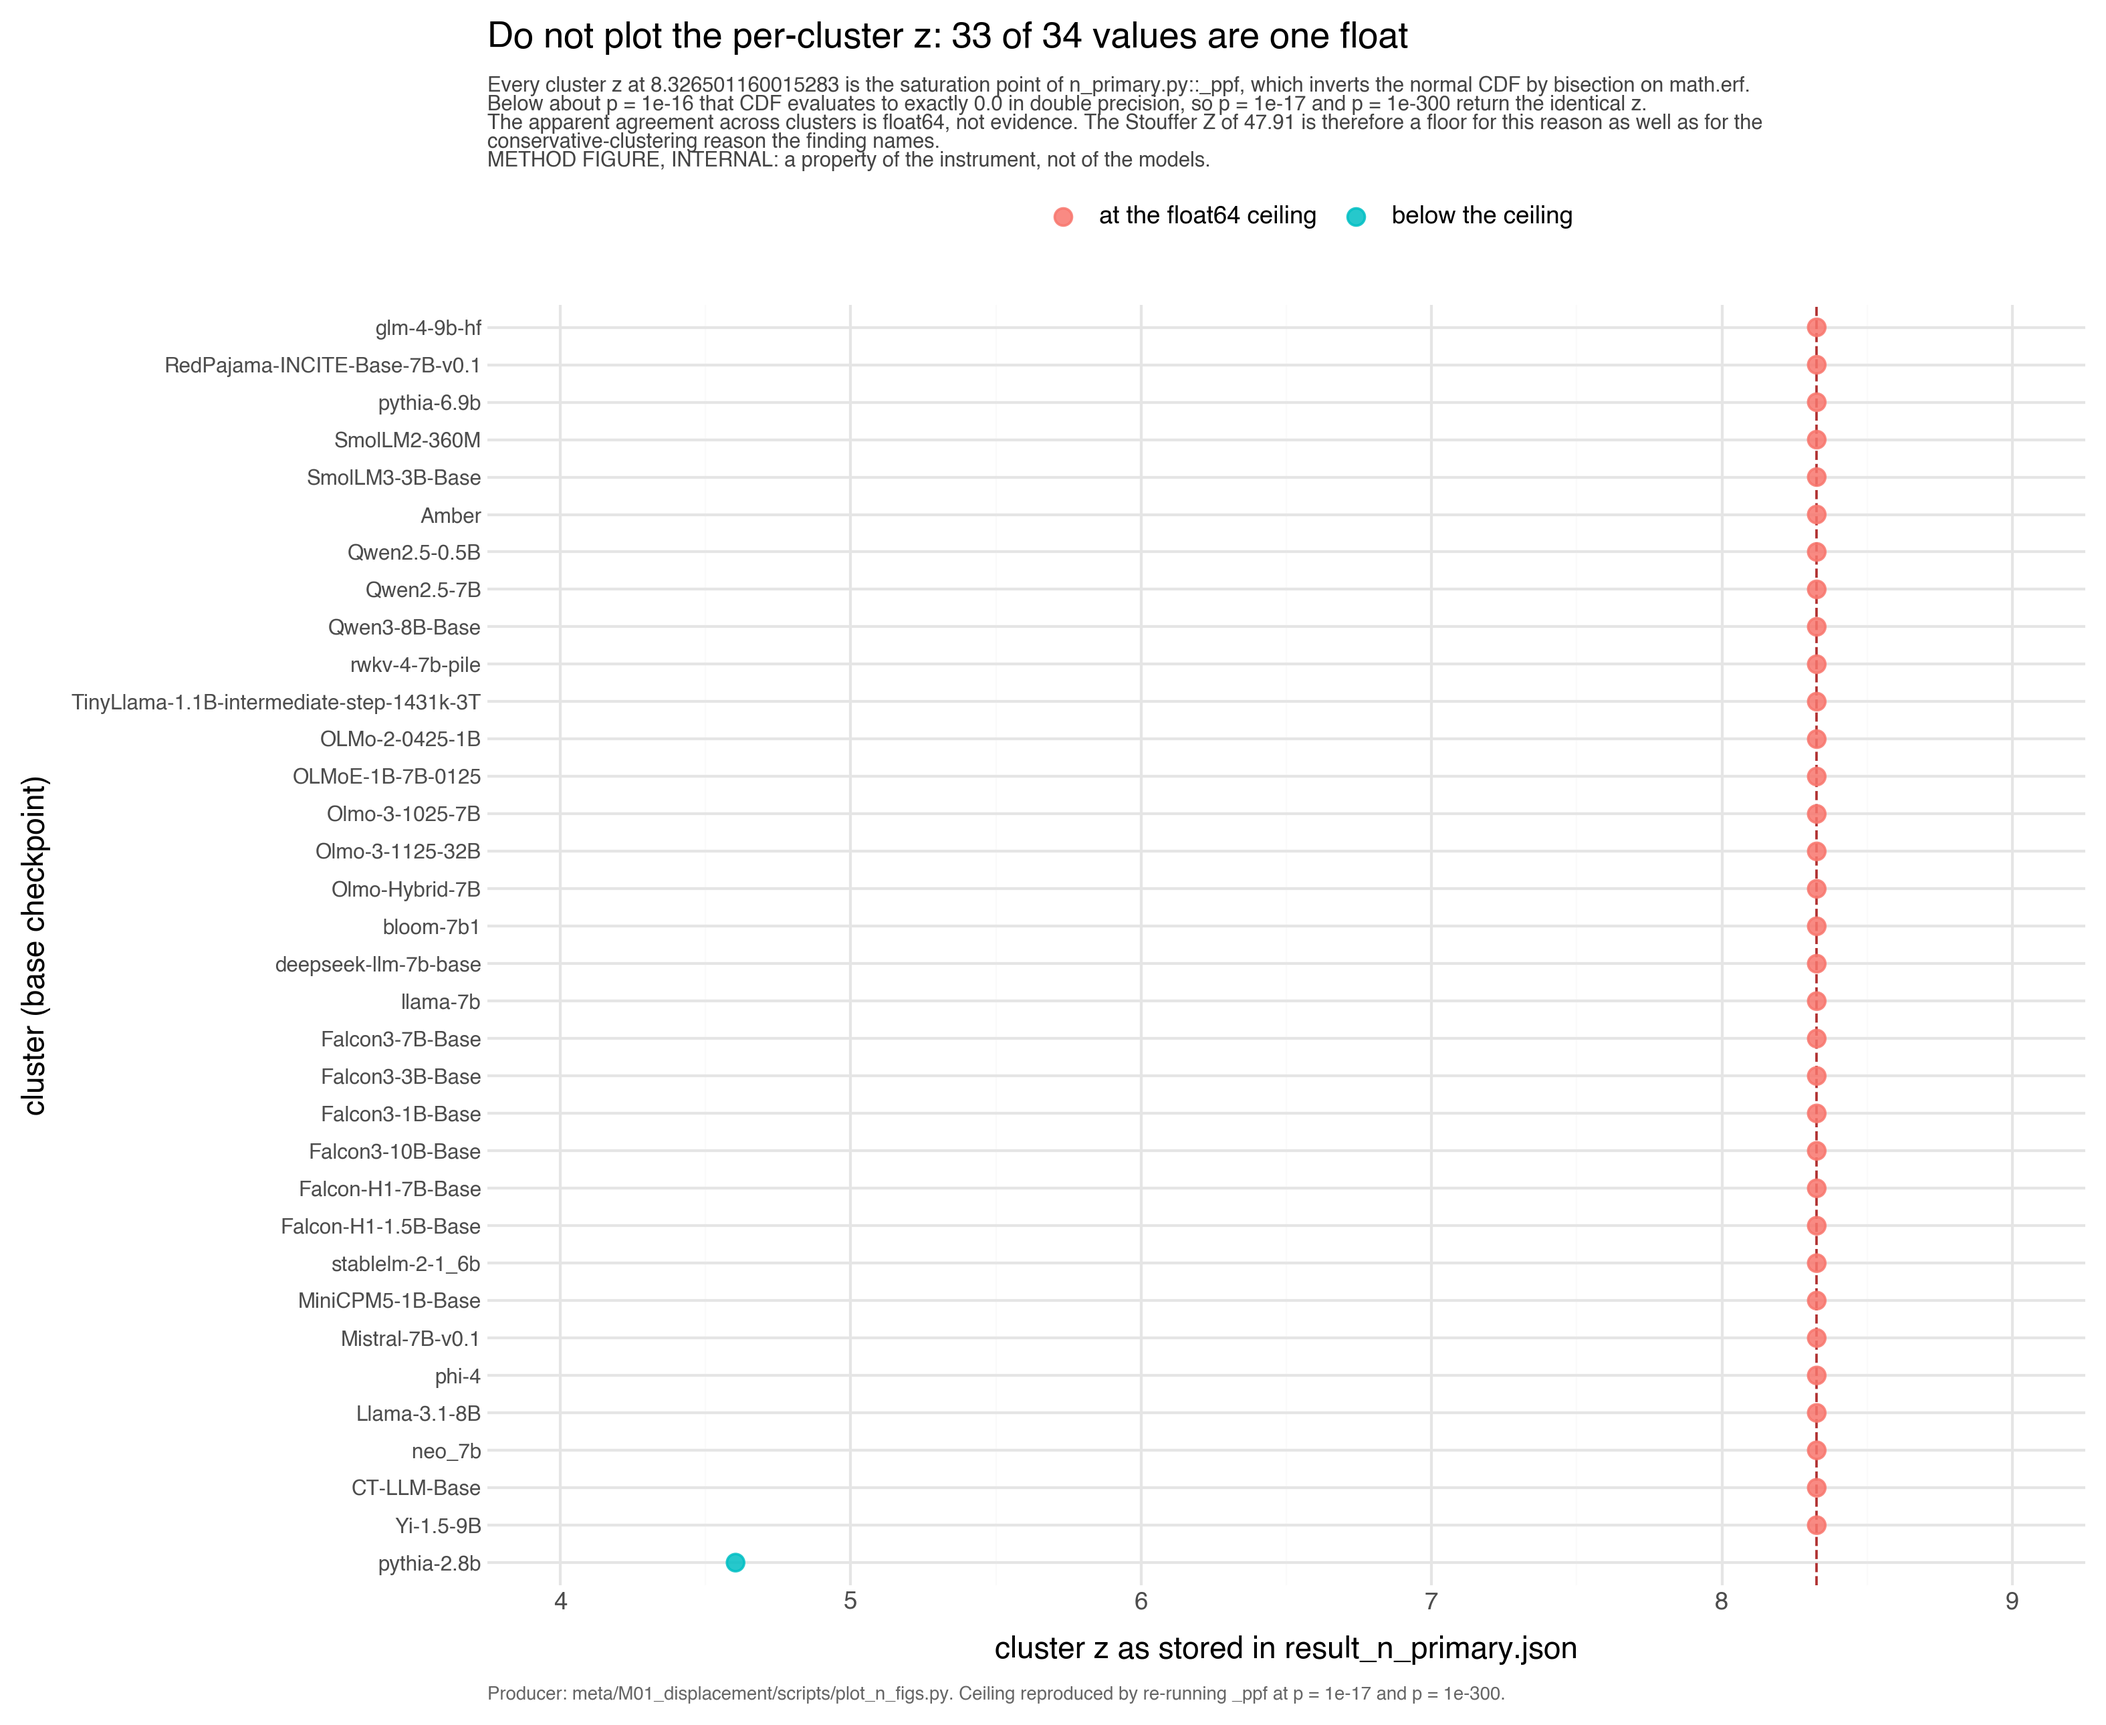
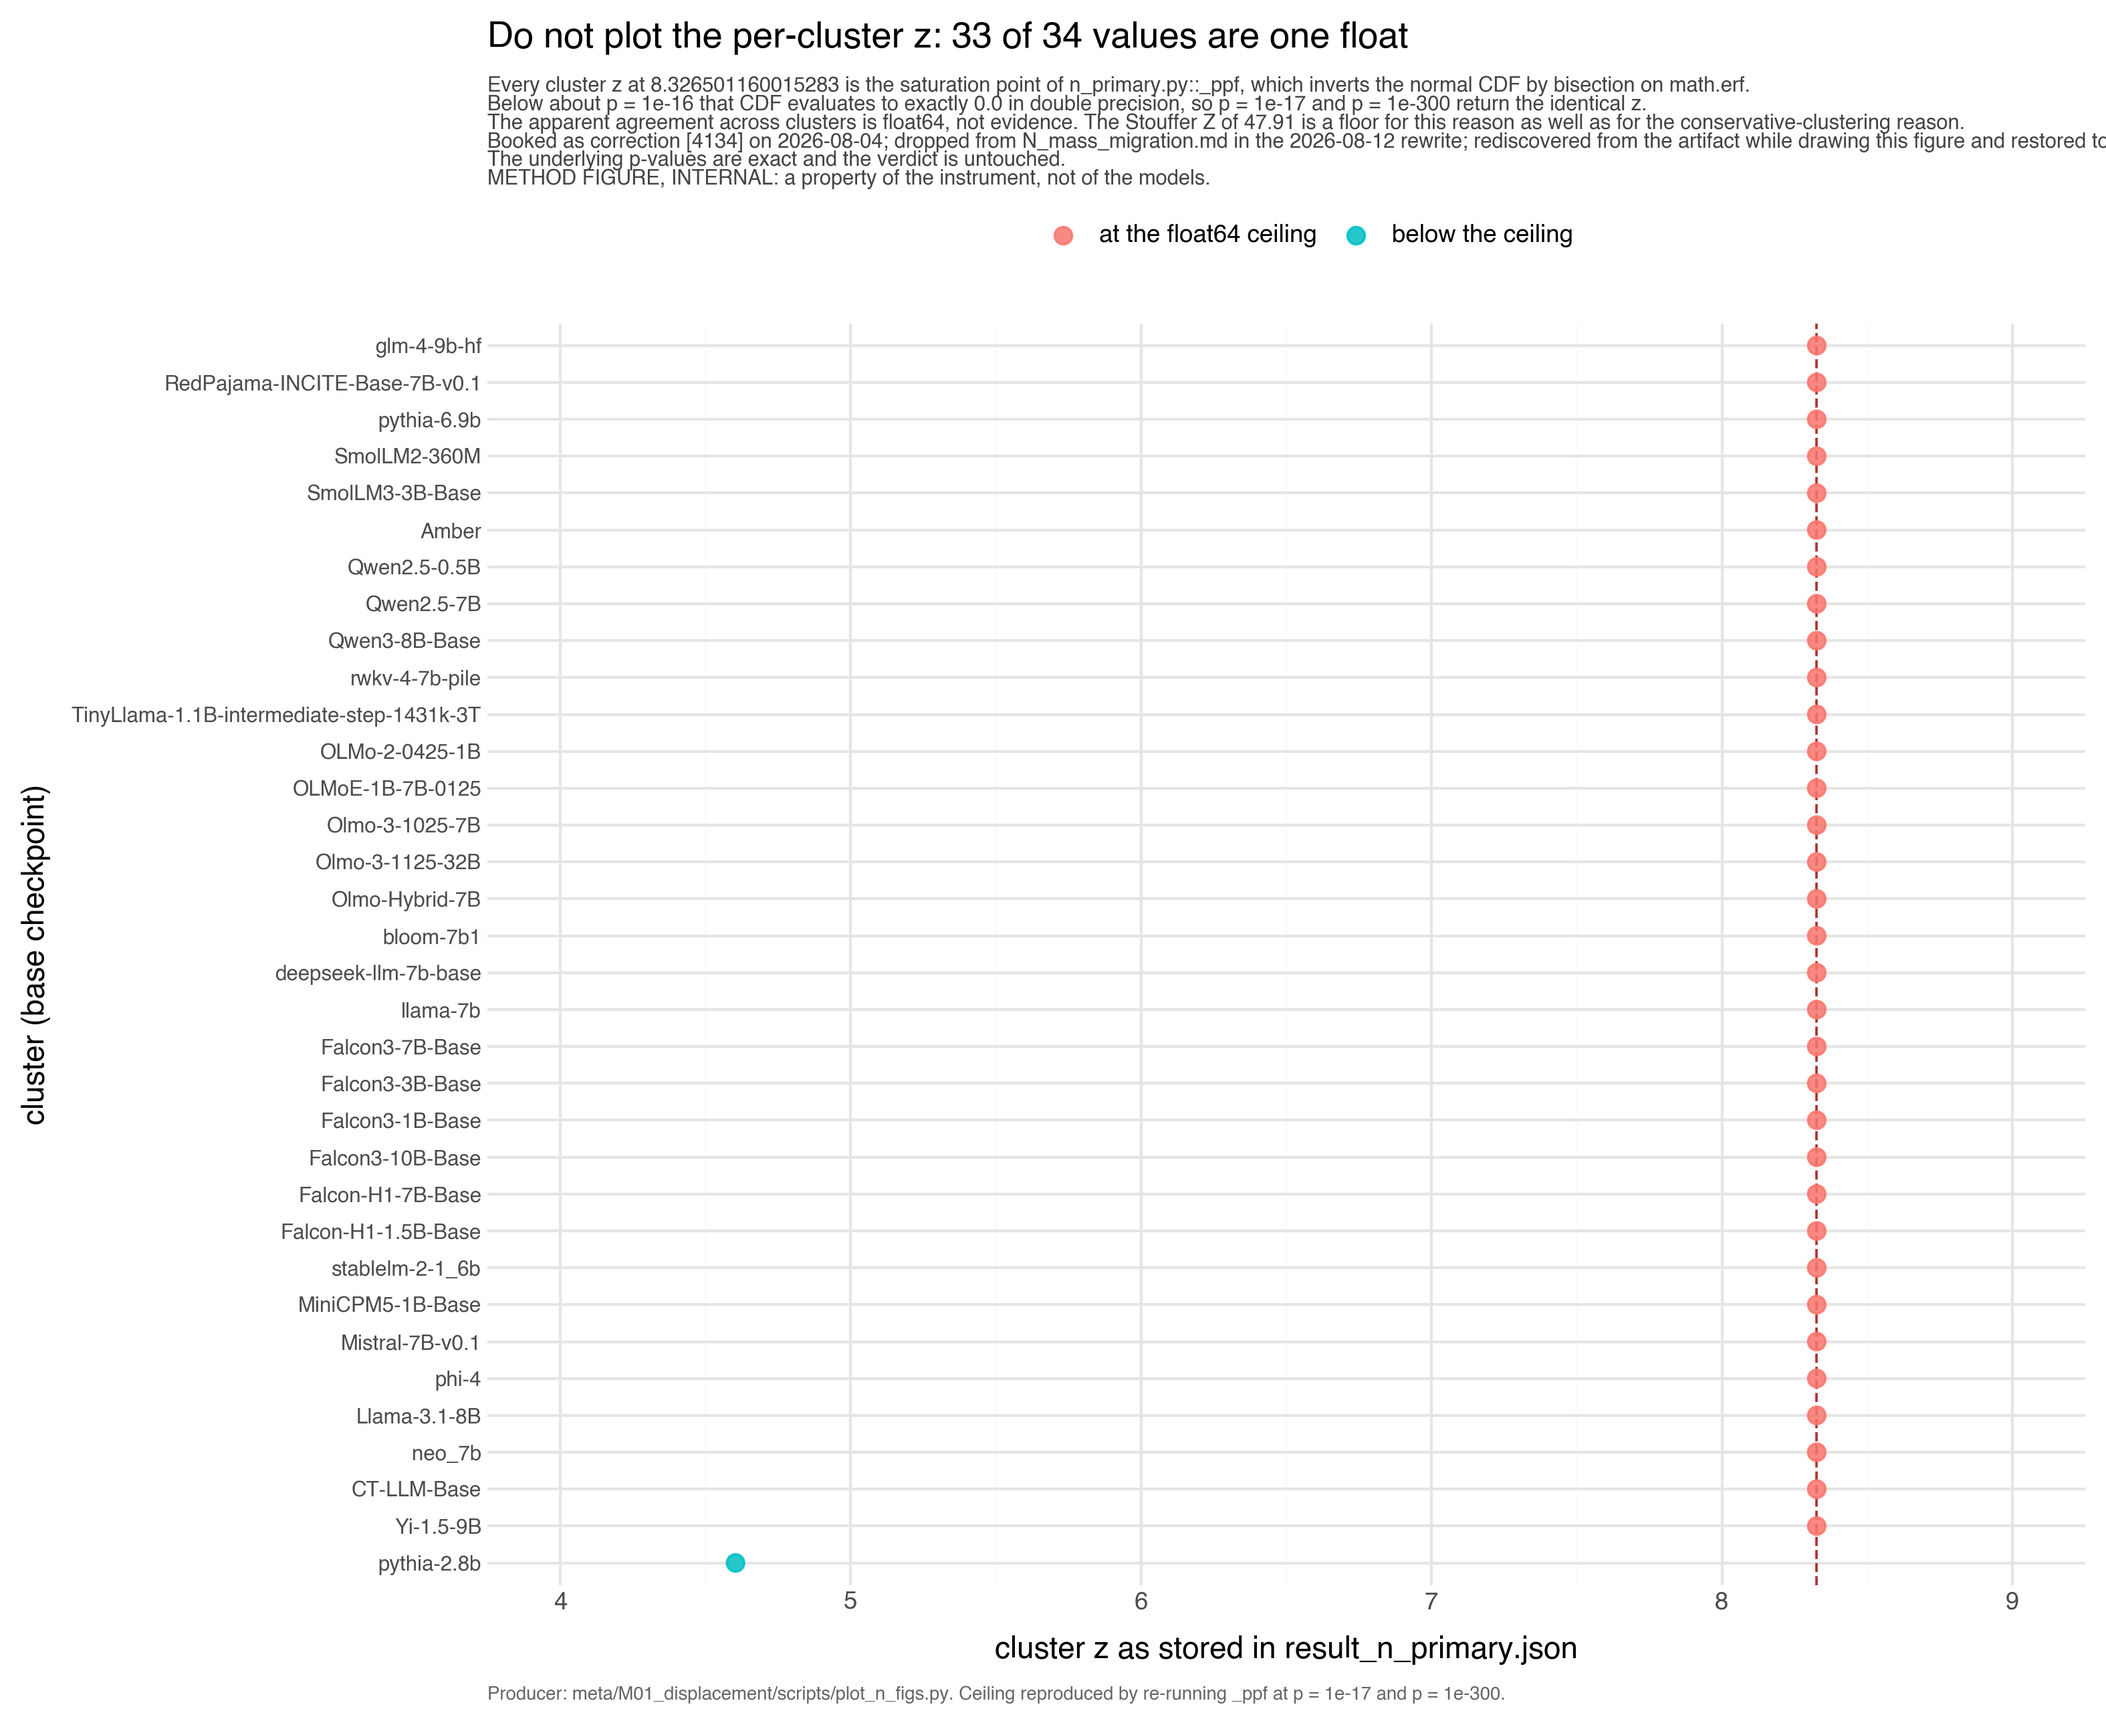
M01 N: credit [4134] on the z-ceiling figure; it was a rediscovery
Per registrar [5899], the ppf saturation was booked as correction [4134]
on 2026-08-04 and dropped from N_mass_migration.md by the 2026-08-12
self-contained rewrite. The doc is repaired at 8beecd00, so this
figure's subtitle claim that the finding names only the
conservative-clustering reason was true when drawn and is now stale.

Subtitle and docstring now credit [4134] as the original booking, name
the desync as what was actually found, and state that the underlying
p-values are exact and the verdict untouched.

Docstring also records the drawing rule the script obeys, in lacan's
form from [5898]: a statistic bounded by its own arithmetic, quoted as
if it were an estimate, is a defect even when the number is correct. So
before a quantity gets a POSITION channel, ask what its maximum is and
whether anything is sitting on it.

diff --git a/meta/M01_displacement/scripts/plot_n_figs.py b/meta/M01_displacement/scripts/plot_n_figs.py
@@ -35,6 +35,16 @@ real quantity with real spread (0.690 to 0.993), so that is the
 position channel. `n_z_ceiling` below draws the ceiling itself as a
 METHOD figure, so the reason is visible rather than only asserted.
 
+NOT A NEW FINDING. The saturation was booked as correction [4134] on
+2026-08-04 and then dropped from N_mass_migration.md by the 2026-08-12
+self-contained rewrite; it was rediscovered here from the artifact,
+blind to [4134], and restored to the doc at 8beecd00 ([5899]). The
+general form, in lacan's words at [5898]: a statistic bounded by its
+own arithmetic, quoted as if it were an estimate, is a defect even when
+the number is correct. Quote the counts. The drawing rule that follows
+is the one this script obeys: before a quantity gets a POSITION
+channel, ask what its maximum is and whether anything is sitting on it.
+
 Each figure function verifies the finding's booked numbers from the
 artifact before drawing and refuses (with a named reason) if they do
 not reproduce.
@@ -276,8 +286,10 @@ def n_z_ceiling():
                 "Below about p = 1e-16 that CDF evaluates to exactly 0.0 in double precision, so "
                 "p = 1e-17 and p = 1e-300 return the identical z.\n"
                 "The apparent agreement across clusters is float64, not evidence. The Stouffer Z of "
-                f"{BOOKED['stouffer_Z']:.2f} is therefore a floor for this reason as well as for the\n"
-                "conservative-clustering reason the finding names.\n"
+                f"{BOOKED['stouffer_Z']:.2f} is a floor for this reason as well as for the conservative-clustering reason.\n"
+                "Booked as correction [4134] on 2026-08-04; dropped from N_mass_migration.md in the 2026-08-12 rewrite; "
+                "rediscovered from the artifact while drawing this figure and restored to the doc at 8beecd00.\n"
+                "The underlying p-values are exact and the verdict is untouched.\n"
                 "METHOD FIGURE, INTERNAL: a property of the instrument, not of the models."),
             x="cluster z as stored in result_n_primary.json",
             y="cluster (base checkpoint)",
